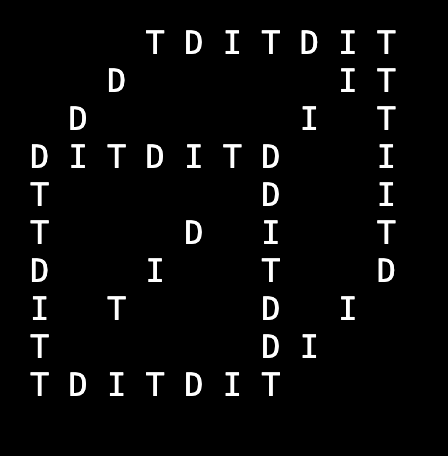
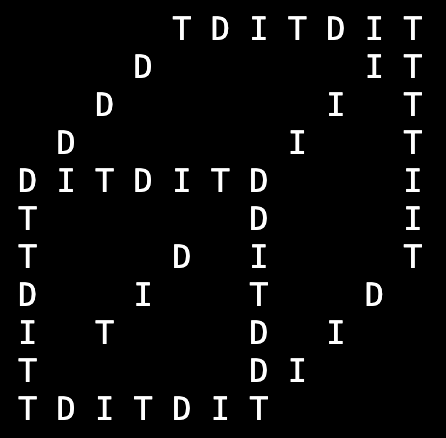
improvements of the plattform

diff --git a/client/src/components/Warmup.jsx b/client/src/components/Warmup.jsx
@@ -126,14 +126,18 @@ export default function Warmup({ onStart }) {
     }
     try { window.localStorage.setItem("warmup_quiz", JSON.stringify({ answers })); } catch {}
     try { window.localStorage.setItem("warmup_done", "1"); } catch {}
+    
     setReady(true);
+    try { window.scrollTo({ top: 0}); } catch {}
   }
 
   async function handleBeginRealChallenge() {
     setError(null);
     const u = (username || "").trim();
-    if (!u) return setError("Please enter a username to continue.");
-    if (u.length < 2) return setError("Username must be at least 2 characters.");
+    if (!u) return setError("Please enter your DB-Email.");
+    // Require emails like something@db.com
+    const isDbEmail = /^[^@\s]+@db\.com$/i.test(u);
+    if (!isDbEmail) return setError("Please enter a valid DB-Email");
     setBusy(true);
     try {
       const res = await fetch(`${API_BASE_URL}/api/start`, {
@@ -199,18 +203,19 @@ export default function Warmup({ onStart }) {
         <div>
           <p><strong>Now you are warmed up. Ready to start the real challenge?</strong></p>
           <div style={{ marginTop: 12 }}>
-            <label style={{ display: "block", marginBottom: 6 }}>Enter your username:</label>
+            <label style={{ display: "block", marginBottom: 6 }}>Enter your DB-Email:</label>
             <input
               value={username}
               onChange={(e) => setUsername(e.target.value)}
-              placeholder="Your username"
+              placeholder="Your DB-Email"
+              validateEmail
               style={{ width: "100%", padding: 8, borderRadius: 6, border: "1px solid #ddd" }}
             />
           </div>
           {error && <div style={{ color: "#b00020", marginTop: 8 }}>{error}</div>}
           <div style={{ display: "flex", gap: 8, marginTop: 12 }}>
             <button disabled={busy} onClick={handleBeginRealChallenge} style={{ padding: "8px 12px", borderRadius: 8, cursor: "pointer" }}>
-              {busy ? "Starting..." : "Start real challenge"}
+              {busy ? "Starting..." : "Start Challenge"}
             </button>
           </div>
         </div>

diff --git a/server/src/index.js b/server/src/index.js
@@ -10,9 +10,27 @@ import { nanoid } from "nanoid";
 
 const app = express();
 app.use(express.json({ limit: "200kb" }));
+
+// Flexible CORS: allow exact origins from env and Cloud Run client patterns
+const allowOrigins = new Set();
+if (process.env.CLIENT_ORIGIN) allowOrigins.add(process.env.CLIENT_ORIGIN);
+if (process.env.CLIENT_ORIGINS) {
+  for (const o of process.env.CLIENT_ORIGINS.split(",")) {
+    const trimmed = o.trim();
+    if (trimmed) allowOrigins.add(trimmed);
+  }
+}
+
+const cloudRunClientRegex = /^https:\/\/coding-challenge-client-[a-z0-9\-]+\.[a-z0-9\-]+\.run\.app$/i;
+
 app.use(
   cors({
-    origin: process.env.CLIENT_ORIGIN || "http://localhost:5173",
+    origin: (origin, cb) => {
+      if (!origin) return cb(null, true); // non-browser or same-origin
+      if (allowOrigins.has(origin)) return cb(null, true);
+      if (cloudRunClientRegex.test(origin)) return cb(null, true);
+      return cb(null, false);
+    },
     credentials: true,
   })
 );
@@ -29,7 +47,10 @@ app.get("/api/challenge", (req, res) => {
     id: challenge.id,
     title: challenge.title,
     description: challenge.description,
-    starterCode: challenge.starterCode,
+    goal: challenge.goal,
+    input: challenge.input,
+    output: challenge.output,
+    hints: challenge.hints,
     starterCodes: challenge.starterCodes || null,
     examples: challenge.examples || [],
   });
@@ -122,7 +143,7 @@ app.post("/api/submit", async (req, res) => {
 
 // Leaderboard (top 20)
 app.get("/api/leaderboard", async (req, res) => {
-  const rows = await Score.find({}).sort({ ms: 1, createdAt: 1 }).limit(20).lean();
+  const rows = await Score.find({}).sort({ ms: 1, createdAt: 1 }).lean();
   res.json(rows.map(r => ({ username: r.username, ms: r.ms, createdAt: r.createdAt })));
 });
 

diff --git a/client/src/components/Challenge.jsx b/client/src/components/Challenge.jsx
@@ -18,7 +18,7 @@ export default function Challenge({ sessionId, onSolved }) {
       setLanguage(defaultLang);
       const key = `code:${c.id || "default"}:${defaultLang}`;
       const saved = typeof window !== "undefined" ? window.localStorage.getItem(key) : null;
-      const starter = (c.starterCodes?.[defaultLang]) || c.starterCode || "";
+      const starter = (c.starterCodes?.[defaultLang]);
       setCode(saved != null ? saved : starter);
     });
   }, []);
@@ -95,8 +95,16 @@ export default function Challenge({ sessionId, onSolved }) {
 
   return (
     <div>
-      <h2 style={{ margin: "8px 0" }}>{meta.title}</h2>
-      <p style={{ margin: "8px 0 16px", whiteSpace: "pre-line" }}>{meta.description}</p>
+      <h2 style={{ margin: "0px 0" }}>{meta.title}</h2>
+      <p style={{ margin: "8px 0 10px", whiteSpace: "pre-line", fontStyle: "italic" }}>{meta.description}</p>
+      <h3 style={{ margin: "0px 0" }}>Goal</h3>
+      <p style={{ margin: "4px 0 10px", whiteSpace: "pre-line" }}>{meta.goal}</p>
+      <h3 style={{ margin: "0px 0" }}>Input</h3>
+      <p style={{margin: "4px 0 10px", whiteSpace: "pre-line" }}>{meta.input}</p>
+      <h3 style={{ margin: "0px 0" }}>Output</h3>
+      <p style={{margin: "4px 0 10px", whiteSpace: "pre-line" }}>{meta.output}</p>
+      <h3 style={{ margin: "0px 0" }}>Hints</h3>
+      <p style={{margin: "4px 0 20px", whiteSpace: "pre-line" }}>{meta.hints}</p>
 
       {Array.isArray(meta.examples) && meta.examples.length > 0 && (
         <div style={{ display: "grid", gridTemplateColumns: "repeat(auto-fit, minmax(240px, 1fr))", gap: 12, marginBottom: 16 }}>

diff --git a/server/src/challenge.js b/server/src/challenge.js
@@ -1,19 +1,17 @@
 export const challenge = {
   id: "tdi-coding-challenge",
-  title: "TDI Coding Challenge",
-  description: "The result of the code should be a logo generator. \n  Your program should takes two number as input and prints the logo. \n What does these number means? \n What happens for 6,0? \n What happens for 8,4? \n  Think about Error scenarios. \n  The console should just display \"Error\" in these cases. \n The predefined input is \"6,2\"",
+  
+  title: "3D TDI DB Logo Generator ",
+  description:"Take the DB Logo to the next dimension with a litle twist",
+  goal: "Write a program that generates and prints the logo (shown in the example) based on two integer inputs.",
+  input: "Two non-negative integers a,b provided as a single line in the format \"a,b\". \n The predefined input which is passed to the editor is: \"6,2\".",
+  output: "On success: print only the logo (no extra text).\nOn error: print exactly \"Error\" (capital E, the rest lowercase) and nothing else.",
+  hints: "Think about these questions:\nWhat is the meaning of the numbers?\nWhat happens for \"6,0\"?\nWhat happens for \"8,4\"?\nFor which input(s) an error should occur?",
   examples: [
     { input: "6,2", image: "/image001.png" },
-    { input: "7,3", image: "/image002.png" }
+    { input: "7,4", image: "/image002.png" }
   ],
   predefinedInput: "6,2\n",
-  starterCode: `def solve():
-#TODO: add you implementation here
-   pass
-
-if __name__ == "__main__":
-   solve()
-`,
   starterCodes: {
     python: `def solve():
 # TODO: implement

diff --git a/client/src/App.jsx b/client/src/App.jsx
@@ -40,31 +40,34 @@ export default function App() {
   }
 
   function handleSolved(ms) {
-    setStoppedMs(ms);
-    setActiveTab("leaderboard");
-    try {
-      window.localStorage.removeItem("user");
-      window.localStorage.removeItem("session");
-    } catch {}
-    // Clear current session so a new user can start
-    setSession(null);
+    clearSession();
+    window.alert(`You successfully solved the TDI coding challenge in ${ms}ms. \n
+      Your name should appear in the leaderboard. \n
+      Please come back to the coding challenge booth at 4pm to claim your prize. \n
+      Thanks for participating in the TDI coding challenge.`);
   }
 
   function handleLogout() {
     const code = window.prompt("Enter code to logout and clear data:");
     if (code === "cleanMe") {
+      clearSession();
+    }
+  }
+
+  function clearSession() {
       try {
         window.localStorage.clear();
       } catch {}
       setSession(null);
       setStoppedMs(null);
+      setWarmupDone(false)
       setActiveTab("leaderboard");
-    }
   }
+  
 
   return (
     <div style={{ maxWidth: 960, margin: "0 auto", padding: 16 }}>
-      <h1>Coding Challenge</h1>
+      <h1>TDI Coding Challenge</h1>
 
       {!session ? (
         <div>

diff --git a/client/index.html b/client/index.html
@@ -3,7 +3,7 @@
 <head>
   <meta charset="UTF-8" />
   <meta name="viewport" content="width=device-width, initial-scale=1.0" />
-  <title>Coding Challenge</title>
+  <title>Bank on Tech 2025</title>
   <style>
     header {
       display: flex;
@@ -25,7 +25,7 @@
 </head>
   <body>
   <header>
-    <h1>Coding Challenge</h1>
+    <h1>Bank on Tech 2025</h1>
     <img src="assets/bannerlogo.png" alt="Logo" />
   </header>
     <div id="root"></div>
